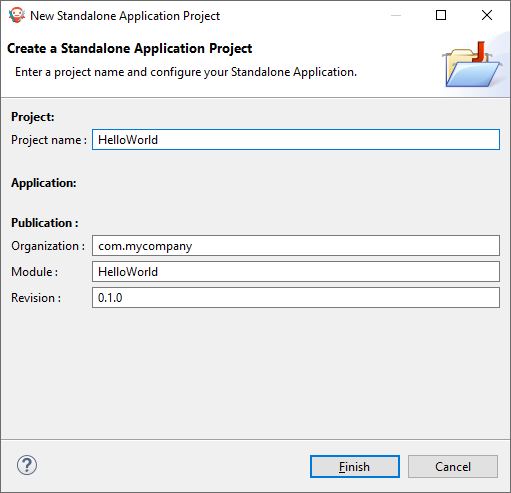
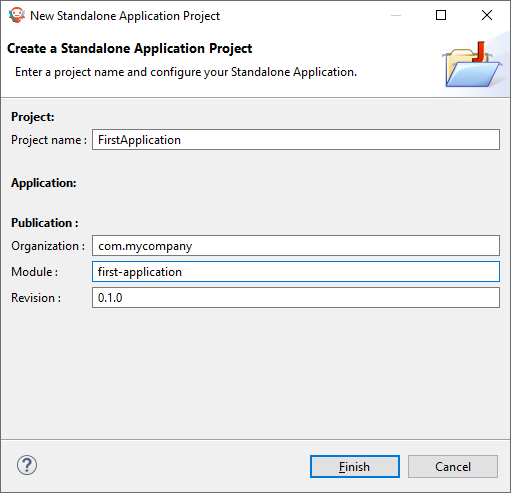
Rework intro and setup

Changed region(s): [[0.1761, 0.5172, 0.3816, 0.5781], [0.1761, 0.2738, 0.3523, 0.3043]]

diff --git a/Tutorials/getStartedWithGUI/setup.rst b/Tutorials/getStartedWithGUI/setup.rst
@@ -1,65 +1,35 @@
-Setup your Environment
-======================
-
-Prerequisites
--------------
-
-The :ref:`MICROEJ SDK <sdk_install>` must be installed.
-Please check the :ref:`MICROEJ SDK requirements <system-requirements>`.
-
-Download and Install
---------------------
-
-#.  Download the installer package corresponding to your host computer OS: `Download MicroEJ SDK <https://repository.microej.com/packages/SDK/>`__.
-
-#.  Unzip the downloaded installer package if needed and execute the installer.
+Environment Setup
+=================
 
 
-Start the IDE for the First Time
---------------------------------
+Start MICROEJ SDK
+-----------------
 
-#. Start MICROEJ SDK and select a workspace. 
+#. Start MICROEJ SDK and select a workspace when prompted.
 
    .. note::
 
       If you are not familiar with Eclipse workspaces, select the default and press OK.
    
-#. Select the MICROEJ repository. 
+#. Select the MICROEJ repository when prompted.
 
    .. note::
 
       If you are not familiar with MICROEJ repositories, select the default and press OK.
 
-Prepare Platform Sources
-------------------------
 
-#. Download and unzip the platform sources for STM32F7508-DK by clicking on :guilabel:`Download` > :guilabel:`Download ZIP`: 
-   `Go to the Github repository <https://github.com/MicroEJ/Platform-STMicroelectronics-STM32F7508-DK/tree/1.3.2>`__.
-#. Follow the README to import the platform sources, activate your license and build your platform, in the Platform Setup section.
-#. Once all the steps of the platform setup are done, a new Java project can be created.
+Platform Setup
+--------------
 
-Create a New Project
---------------------
+#. Clone the Platform sources for the STM32F7508-DK: ``git clone -b 1.5.0 https://github.com/MicroEJ/Platform-STMicroelectronics-STM32F7508-DK.git``.
+#. Follow the `Platform Setup section <https://github.com/MicroEJ/Platform-STMicroelectronics-STM32F7508-DK/tree/1.5.0#platform-setup>`_ to import and build the Platform.
 
-Go to :guilabel:`File` > :guilabel:`New` > :guilabel:`Standalone Application Project`:
+The workspace should now contain a Platform ready to be used for application development on STM32F7508-DK:
 
-.. image:: images/createStandaloneProject.png
+.. image:: images/platformProjects.png
    :align: center
 
-The project structure should look like this:
 
-.. image:: images/structure.png
-   :align: center
-
-Featured Project: Widget Demo
------------------------------
-
-You can have a look at the widget demo project, which contains multiple samples of widgets and usage.
-
-- `Widget Demo GitHub Repository <https://github.com/MicroEJ/Demo-Widget>`__
-
-.. image:: images/widgetdemo.png
-   :align: center
 
 **Next step:** :ref:`ui-starting-microui`
 

diff --git a/Tutorials/getStartedWithGUI/index.rst b/Tutorials/getStartedWithGUI/index.rst
@@ -1,12 +1,41 @@
 .. _tutorial_get_started_with_gui:
 
-Get Started With GUI 
-====================
+Get Started with Graphical User Interface 
+=========================================
+
+This tutorial explains how to get started with GUI development in MICROEJ SDK. 
+It goes through the key concepts needed by an application developer when building the GUI of a product.
+
+In this tutorial, the target device is the `STM32F7508-DK <https://www.st.com/en/evaluation-tools/stm32f7508-dk.html>`_, 
+a Discovery Kit by ST featuring a 4.3-inch 480x272 color LCD-TFT with a capacitive touch screen.
+
+No board is required to follow this tutorial. Everything
+can be tested in the :ref:`Virtual Device <section.virtual.device>`.
+
+The tutorial should take XXX hours to complete (excluding the
+installation time of MicroEJ SDK).
+
+
+Intended Audience
+-----------------
+
+The audience for this document is Application engineers who want to create GUI applications for embedded devices.
+
+The following document assumes that the reader is familiar with Java development.
+
+Prerequisites
+-------------
+
+* MicroEJ SDK version 5.3.0 or higher. Check the :ref:`SDK User Guide <sdk_install>` for download and installation instructions.
+
+Overview
+--------
 
 .. toctree::
    :maxdepth: 1
 
    setup
+   newApplication
    Step01
    Step07
    Step08

diff --git a/Tutorials/getStartedWithGUI/newApplication.rst b/Tutorials/getStartedWithGUI/newApplication.rst
@@ -1,0 +1,36 @@
+Create a GUI Application
+========================
+
+To create a new :ref:`Standalone Application <standalone_application>`:
+
+#. Go to :guilabel:`File` > :guilabel:`New` > :guilabel:`Standalone Application Project`.
+#. Fill out the project creation form, like in the example below:
+
+.. image:: images/createStandaloneProject.png
+   :align: center
+
+The structure of the new project should look like this:
+
+.. image:: images/structure.png
+   :align: center
+
+
+Add the Widget Dependency
+-------------------------
+
+The :ref:`Widget library <widget_library>` features a collection of widgets frequently used in GUIs.
+
+To use the Widget library in the project:
+
+#. Open the ``module.ivy`` file at the root of the project.
+#. Add the following dependency: ``<dependency org="ej.library.ui" name="widget" rev="4.1.0"/>``, like below:
+
+.. image:: images/widget_dependency.png
+   :align: center
+
+..
+   | Copyright 2022, MicroEJ Corp. Content in this space is free 
+   for read and redistribute. Except if otherwise stated, modification 
+   is subject to MicroEJ Corp prior approval.
+   | MicroEJ is a trademark of MicroEJ Corp. All other trademarks and 
+   copyrights are the property of their respective owners.

diff --git a/ApplicationDeveloperGuide/UI/Widgets/widget.rst b/ApplicationDeveloperGuide/UI/Widgets/widget.rst
@@ -1,3 +1,5 @@
+.. _widget_library:
+
 Widget Library
 ==============
 
